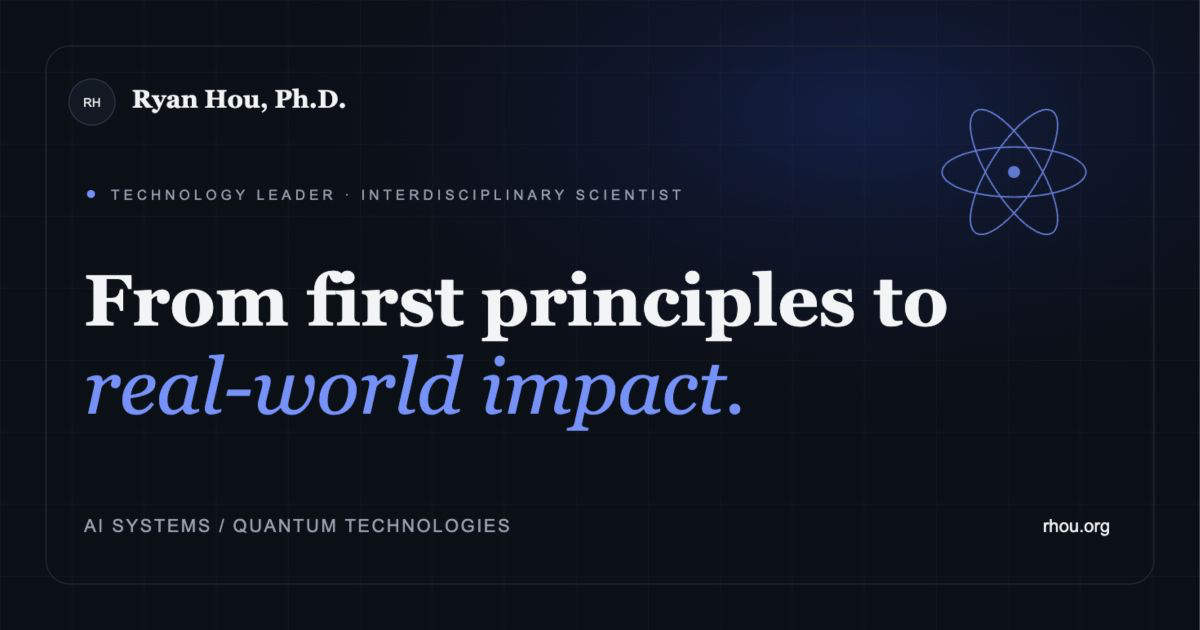
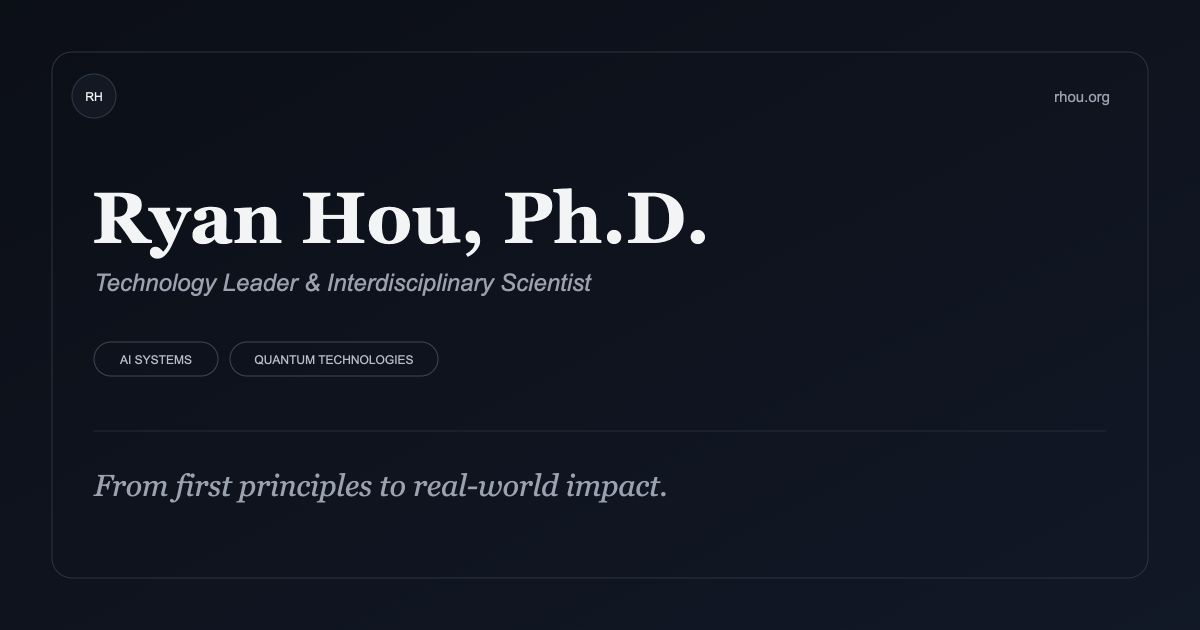
Refine homepage hierarchy

diff --git a/src/styles/global.css b/src/styles/global.css
@@ -96,75 +96,6 @@ summary:focus-visible {
   outline-offset: 3px;
 }
 
-.hero-field::before {
-  position: absolute;
-  inset: 0;
-  content: '';
-  pointer-events: none;
-  background-image:
-    linear-gradient(
-      to right,
-      color-mix(in srgb, var(--line) 48%, transparent) 1px,
-      transparent 1px
-    ),
-    linear-gradient(
-      to bottom,
-      color-mix(in srgb, var(--line) 34%, transparent) 1px,
-      transparent 1px
-    );
-  background-size: 72px 72px;
-  mask-image: linear-gradient(to right, transparent 4%, black 55%, transparent 100%);
-  opacity: 0.5;
-}
-
-.hero-field::after {
-  position: absolute;
-  top: -8rem;
-  right: 3%;
-  width: 34rem;
-  height: 34rem;
-  content: '';
-  pointer-events: none;
-  border-radius: 9999px;
-  background: radial-gradient(
-    circle,
-    color-mix(in srgb, var(--signal) 13%, transparent),
-    transparent 68%
-  );
-}
-
-.hero-field > * {
-  position: relative;
-  z-index: 1;
-}
-
-.orbit-mark {
-  position: relative;
-  width: 5.25rem;
-  height: 5.25rem;
-}
-
-.orbit-mark span {
-  position: absolute;
-  inset: 0;
-  border: 1px solid var(--color-line);
-  border-radius: 50%;
-}
-
-.orbit-mark span:nth-child(1) {
-  transform: rotate(58deg) scaleX(0.38);
-}
-
-.orbit-mark span:nth-child(2) {
-  transform: rotate(-58deg) scaleX(0.38);
-}
-
-.orbit-mark span:nth-child(3) {
-  border-color: var(--color-signal);
-  transform: scale(0.11);
-  background: var(--color-signal);
-}
-
 /* Tune @tailwindcss/typography to use the site's tokens instead of its
    default gray scale, so rendered Markdown matches the rest of the page. */
 .prose {
